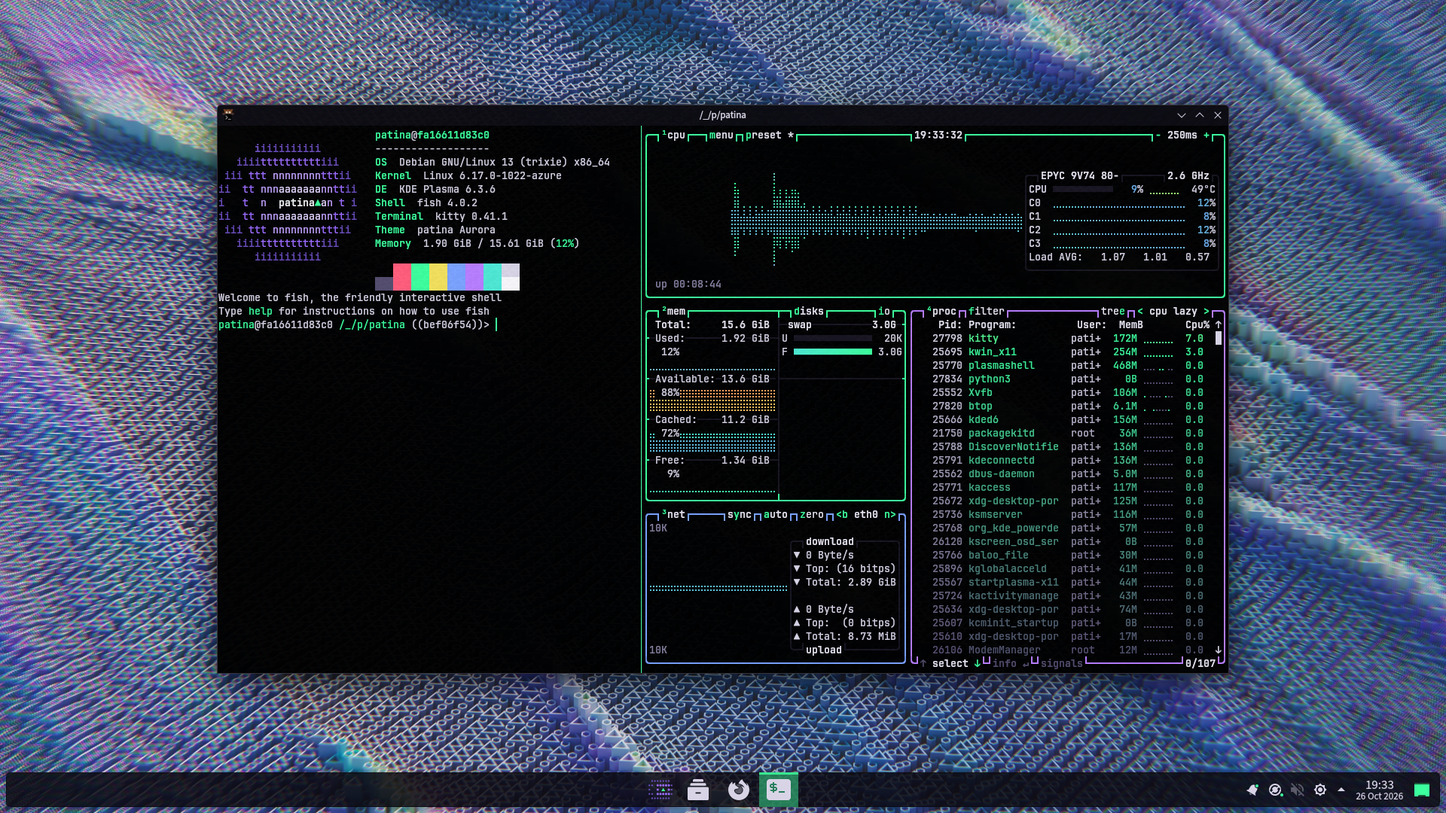
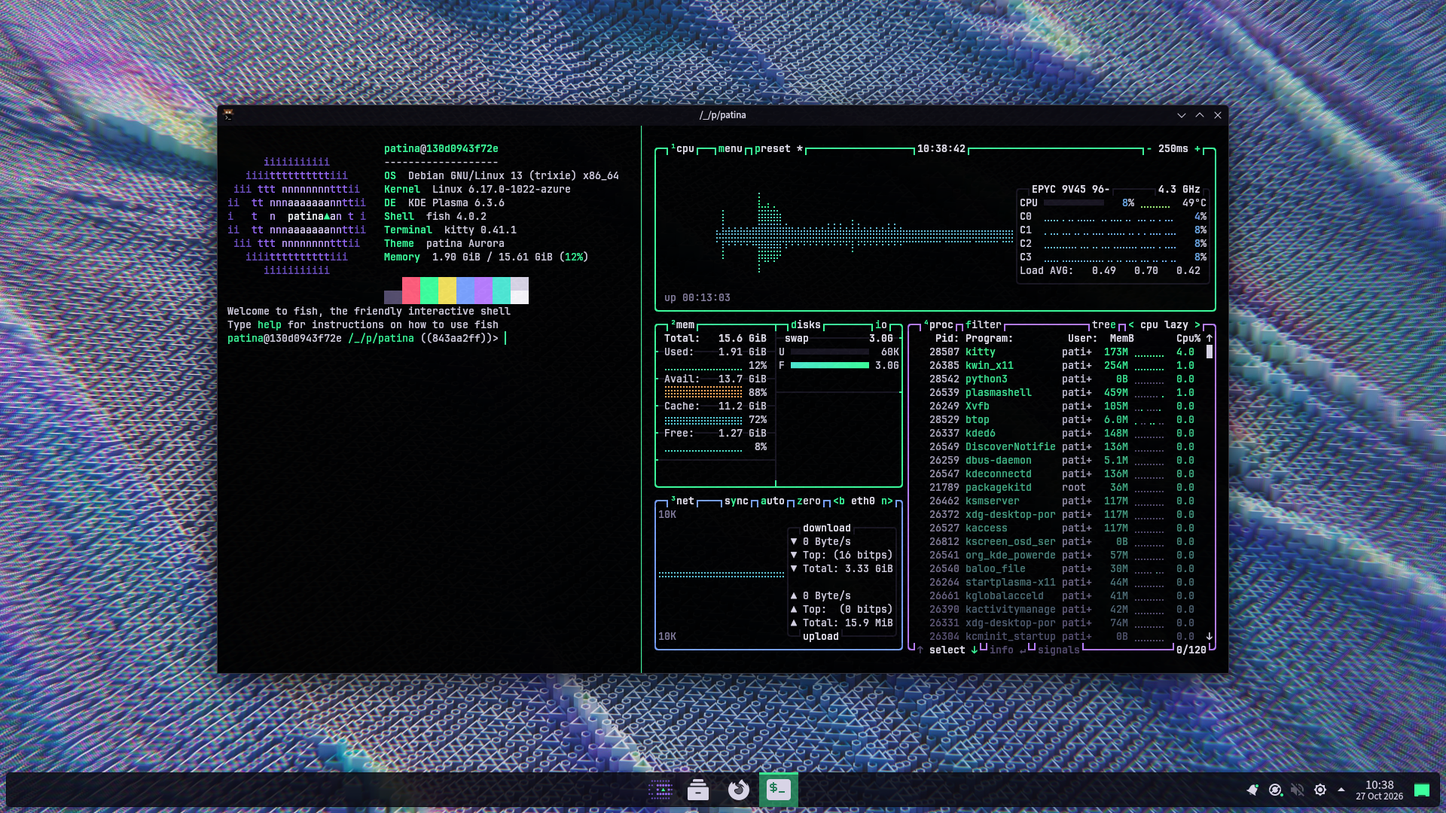
Highlight kortex and ArtCraft in the README, refresh the screenshots
The README lagged behind the last day's work: the AI agent in the install,
kortex in the command palette and the opt-in ArtCraft suite. kortex gets a
section of its own near the top with its animation, shown from the kortex
repository so there is one copy; ArtCraft is described in the app stack as
what it is, an external package from its upstream's release. The
screenshots section names the start menu and command palette pictures the
desktop workflow now takes; they follow from its artifact.

The installer and desktop screenshots are copied unchanged from the latest
iso and desktop runs on what main holds: the installer now lists the AI
agent's page, the terminal its padding.

Claude-Session: https://claude.ai/code/session_013UKWhTKNSwazTXVYvkuLhK

Changed region(s): [[0.4375, 0.2139, 0.8438, 0.825], [0.1562, 0.1528, 0.4062, 0.4278], [0.4375, 0.1528, 0.8438, 0.1833]]

diff --git a/README.md b/README.md
@@ -17,27 +17,54 @@
   EU-sovereign app stack on top of Debian stable with Plasma. Not a distribution.
 </p>
 
-**Status: alpha, for testers.** `patina install` installs the app stack and the system
-tuning on Debian 13 and renders the default theme, aurora, into Plasma's configuration
-(checked in CI containers on x86_64 and aarch64, not yet on a real desktop); the
-branded install is still to come. [Testing the alpha](#testing-the-alpha) says how to
+**Status: alpha, for testers.** `patina install` installs the app stack, the AI agent
+and the system tuning on Debian 13 and renders the default theme, aurora, into Plasma's
+configuration (checked in CI containers on x86_64 and aarch64, not yet on a real
+desktop); the branded install is still to come. [Testing the alpha](#testing-the-alpha) says how to
 help; see the [roadmap](docs/roadmap.md).
+
+## The agent in the command palette
+
+<p align="center">
+  <img src="https://raw.githubusercontent.com/patina21/kortex/main/docs/demo/kortex-demo.gif" alt="kortex in KRunner: a question answered, then a theme switch that waits for Allow once" width="720">
+</p>
+
+Meta+Space, `ai` and what you want: [kortex](https://github.com/patina21/kortex), patina's
+KRunner runner, hands the request to the AI agent and shows the answer right in the
+command palette, and every action the agent wants to take as its own line with Allow
+once, Always and Deny. Nothing runs before you choose. The agent is
+[opencode](https://opencode.ai), free software, with a model on your machine by default;
+[The AI agent](#the-ai-agent) says more.
+
+<sub>A replay of a real run of kortex 0.1.0 with opencode and a scripted model; how it
+is made is in kortex's [`docs/demo/`](https://github.com/patina21/kortex/tree/main/docs/demo).</sub>
 
 ## Screenshots
 
-The installer's welcome page, as the live image's boot test captures it in CI (amd64,
-QEMU, Calamares as Debian 13 ships it, branded through data):
+All taken by CI, never edited (`iso/README.md` says how). The installer's welcome page,
+as the live image's boot test captures it (amd64, QEMU, Calamares as Debian 13 ships it,
+branded through data), with the AI agent's page among the steps:
 
 ![The patina installer's welcome page](docs/screenshots/installer-amd64.png)
 
-The finished desktop, as the `desktop` workflow captures it in CI (amd64, a Plasma X11
+The finished desktop, as the `desktop` workflow captures it (amd64, a Plasma X11
 session on a virtual framebuffer after `patina install`): aurora, the default theme,
 with its wallpaper, the centred bar of one-colour icons and slightly see-through
 windows: kitty split in two, the fastfetch greeting beside btop.
 
 ![The patina desktop with the aurora theme](docs/screenshots/desktop-amd64.png)
 
-The screenshots are taken by CI, never edited; see `iso/README.md`.
+The start menu: the patina mark as its button, the AI and self-hosting folders first,
+then the favourites, here with the opt-in ArtCraft Launcher.
+
+![The patina start menu with the AI and self-hosting folders and the ArtCraft Launcher](docs/screenshots/start-menu-amd64.png)
+
+The command palette in the same session: `ai switch to the light theme`, kortex's
+answer through a real `opencode serve`, and the agent's request to run `patina theme
+mode light`, waiting for Allow once, Always or Deny. The model is kortex's scripted
+demo model, since CI has none to run.
+
+![KRunner with kortex: the agent's answer and an action waiting for Allow once](docs/screenshots/command-palette-amd64.png)
 
 ## What it is
 
@@ -45,7 +72,7 @@ patina takes a stock Debian with Plasma and finishes it: one consistent theme ac
 Plasma, terminal and editors, sane defaults, the apps a privacy-minded developer in the
 EU wants, an AI agent that answers, changes settings when you say yes, writes code and
 works on your servers (opencode, with a model on your machine or from a cloud provider
-you pick), and the agent tools (Claude Code, Codex CLI, opencode, Claude Desktop,
+you pick), right in the command palette through kortex, and the agent tools (Claude Code, Codex CLI, opencode, Claude Desktop,
 Ollama for local models) installed the way their upstreams intend.
 
 It is inspired by [Omarchy](https://omarchy.org): the polish, the themes, the quick
@@ -84,7 +111,8 @@ Two paths, one layer. If they ever diverge, Path A wins.
 sudo apt install git curl
 git clone https://github.com/patina21/patina.git ~/.local/share/patina
 ~/.local/share/patina/bin/patina install            # the default bundles: base, desktop
-~/.local/share/patina/bin/patina install --all      # plus the opt-in agent tools
+~/.local/share/patina/bin/patina install --bundles desktop,artcraft   # plus ArtCraft
+~/.local/share/patina/bin/patina install --all      # every opt-in bundle, agent tools included
 ```
 
 `patina install --list` shows the bundles, `patina doctor` checks the result,
@@ -166,11 +194,17 @@ Nextcloud client, Thunderbird, Element, KeePassXC, Euro-Office (the European, AG
 ONLYOFFICE), Firefox ESR (telemetry, Pocket and sponsored content off), Tauon for music,
 Haruna for video, Gwenview for images, Okular for PDFs, kitty as the terminal, a
 developer kit (fish, starship, bat, eza, fzf, ripgrep, lazygit, btop, zoxide, atuin,
-git-delta, neovim, fastfetch) and the Zed editor, plus the agent tools above. Opt-in:
-the `artcraft` bundle, the launcher of the [ArtCraft](https://craftingapps.org) suite,
-free counterparts of Photoshop, Illustrator, Word, Excel, PowerPoint, Acrobat and seven
-more, still alpha; you pick the apps in the launcher, which keeps them updated. Gaming
-is not a focus. Everything comes from Debian's archive except what it does
+git-delta, neovim, fastfetch) and the Zed editor, plus the agent tools above. Gaming
+is not a focus.
+
+Opt-in, as an external package: the `artcraft` bundle (`patina install --bundles
+artcraft`) brings the launcher of the [ArtCraft](https://craftingapps.org) suite, free
+counterparts of Photoshop, Illustrator, Word, Excel, PowerPoint, Acrobat and seven
+more, still alpha. Neither Debian nor Flathub carries it yet, so the ArtCraft Launcher
+comes as its upstream's AppImage, pinned in `manifest/upstream.yaml`; you pick the apps
+in it, and it installs and updates them and itself, outside apt. It sits among the
+start menu's favourites, and moves to Debian's archive or Flathub as soon as one of
+them carries it. Euro-Office stays the office suite of the default stack. Everything comes from Debian's archive except what it does
 not carry: GUI apps we do not want to track come from Flathub, agent tools from their
 upstream installers (npm, uv, Anthropic's own apt repository for Claude Desktop),
 Euro-Office from Nextcloud's signed apt repository until Flathub carries it, and the
@@ -198,8 +232,10 @@ this machine is put together and how to change it the patina way. In the command
 palette (Meta+Space), type `ai` and your request: [kortex](https://github.com/patina21/kortex),
 a KRunner runner in a repository of its own (so it also serves other Plasma desktops),
 shows the answer there and every action the agent wants to take with Allow once,
-Always and Deny. `ai` alone lists the recent conversations, `ai ›` shows the current
-one. Both AI answers install it.
+Always and Deny, as the animation at the top shows. `ai` alone lists the recent
+conversations, `ai ›` shows the current one, and Open in terminal continues a
+conversation in opencode for longer work. Both AI answers install it, from its tagged
+release.
 
 ## FAQ
 
